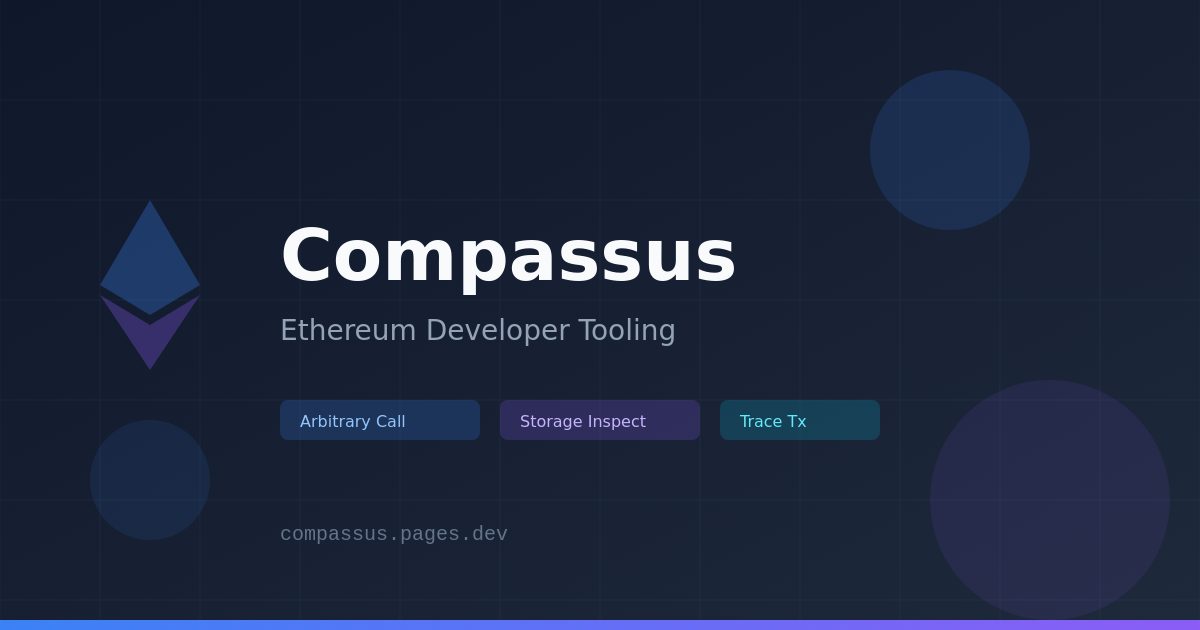
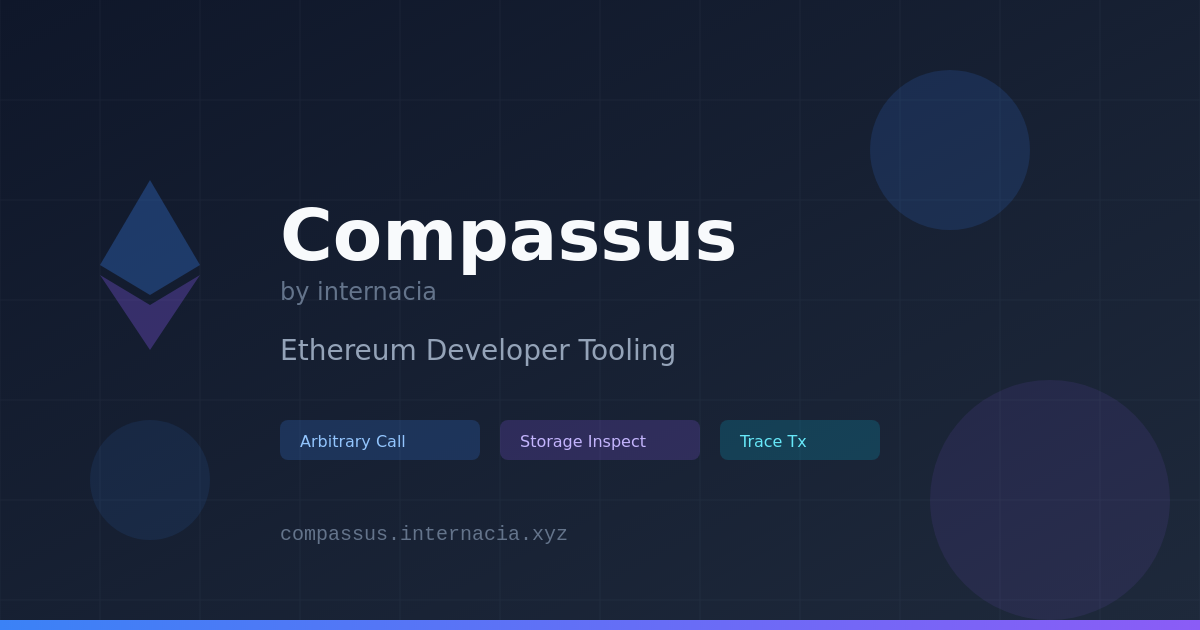
Update OG image with internacia branding and new URL
- Added "by internacia" text below title
- Changed URL to compassus.internacia.xyz
- Added og:image:width and height meta tags

diff --git a/index.html b/index.html
@@ -9,17 +9,19 @@
 
     <!-- Open Graph / Facebook -->
     <meta property="og:type" content="website" />
-    <meta property="og:url" content="https://compassus.pages.dev/" />
+    <meta property="og:url" content="https://compassus.internacia.xyz/" />
     <meta property="og:title" content="Compassus - Ethereum Dev Tooling" />
     <meta property="og:description" content="Ethereum developer tools for contract interaction, storage inspection, and transaction tracing" />
-    <meta property="og:image" content="https://compassus.pages.dev/og-image.png" />
+    <meta property="og:image" content="https://compassus.internacia.xyz/og-image.png" />
+    <meta property="og:image:width" content="1200" />
+    <meta property="og:image:height" content="630" />
 
     <!-- Twitter -->
     <meta name="twitter:card" content="summary_large_image" />
-    <meta name="twitter:url" content="https://compassus.pages.dev/" />
+    <meta name="twitter:url" content="https://compassus.internacia.xyz/" />
     <meta name="twitter:title" content="Compassus - Ethereum Dev Tooling" />
     <meta name="twitter:description" content="Ethereum developer tools for contract interaction, storage inspection, and transaction tracing" />
-    <meta name="twitter:image" content="https://compassus.pages.dev/og-image.png" />
+    <meta name="twitter:image" content="https://compassus.internacia.xyz/og-image.png" />
 
     <!-- Additional meta -->
     <meta name="theme-color" content="#0f172a" />
